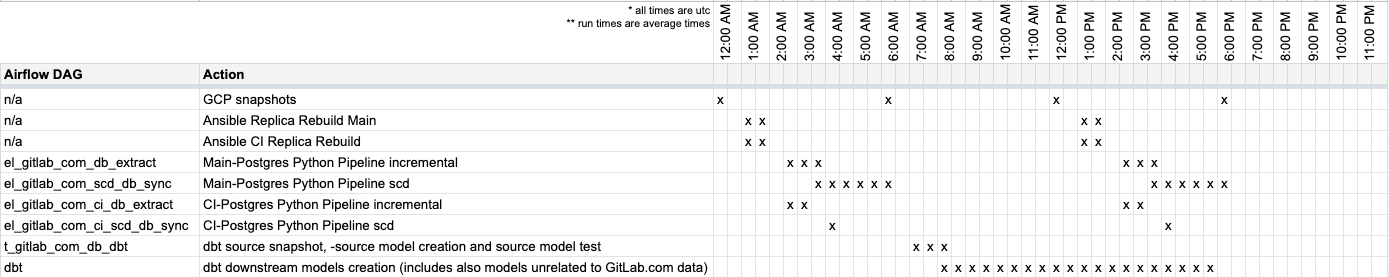
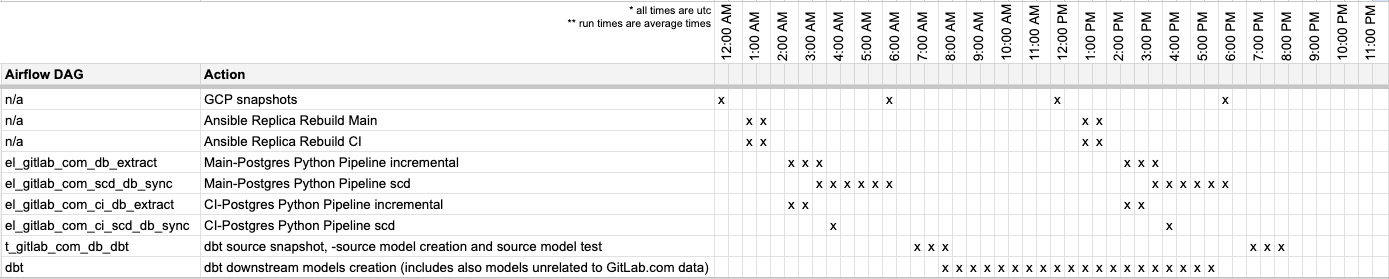
Update gitlab com SLO

Changed region(s): [[0.0, 0.0, 1.0, 1.0], [0.0, 0.3466, 0.031, 0.3755]]

diff --git a/business-technology/data-team/platform/pipelines/SAAS-Gitlab-com/index.html.md b/business-technology/data-team/platform/pipelines/SAAS-Gitlab-com/index.html.md
@@ -28,6 +28,8 @@ Data for reporting and analytics use cases like MR Rate & Performance KPIs (Prod
 * Does it contain PII data? `Yes`
 * How often does the data need to be refreshed? `Extract runs twice per day`
 * SLA Description: 
+   - Max 32 hours to Snowflake
+   - Max 55 hours to Sisense/Tableau 
 * Severity in case of an incident
   - [x] Critical - S1
   - [ ] High - S2
@@ -53,6 +55,38 @@ Data for reporting and analytics use cases like MR Rate & Performance KPIs (Prod
 | Business users who need to be informed in case of data outage | See [runbook](https://gitlab.com/gitlab-data/runbooks/-/blob/main/Gitlab_dotcom/Gitlab_DB_recreation_failure.md#slo-breach) | `N/A` |
  
 * Data access approval will be involved in the Access Request process and need to give approval if a GitLab team member applies for raw data access.
+ 
+## SLO explaination
+
+The extract runs twice per day on a replica Postgres database with static data. During the extract, we use a static source. If data is added or modified 1 second before the snapshot creation, it's included in the snapshot. However, if data is added or modified 1 second _after_ the snapshot is created, that data is excluded. Therefore, data is always older than the duration of the extraction process (approximately 6 hours) when it lands in Snowflakes `RAW` [layer](/handbook/business-technology/data-team/platform/#raw). After landing in Snowflake it requires [multiple steps](/handbook/business-technology/data-team/platform/dbt-guide/#what-and-why) to make it available for usage in Sisense/Tableau (`PROD` [layer](/handbook/business-technology/data-team/platform/#prod)).
+ 
+The setup currently, and SLO, is set that if the [Ansible Replica Rebuild](handbook/business-technology/data-team/platform/pipelines/SAAS-Gitlab-com/#ansible -replica-ebuild) step fails once (and subsequently we could not run the extract step) it does not lead to a SLO breach.
+
+**Example 1:**
+- Sunday 23:59:59AM UTC - Data is added or modified via GitLab.com
+- Monday 00:00:00AM UTC - Snapshot created 
+- Monday 01:00:00AM UTC - Ansible Replica Rebuild 
+- Monday 02:30:00AM UTC - Pipeline to extract data starts
+- Monday 06:00:00AM UTC - Data available in `raw` format in Snowflake
+- Monday 05:00:00PM UTC - Data available in for consumption in Sisense/Tableau 
+
+**Example 2:**
+- Monday 00:00:01AM UTC - Data is added or modified via GitLab.com
+- Monday 12:00:00PM UTC - Snapshot created 
+- Monday 01:00:00PM UTC - Ansible Replica Rebuild 
+- Monday 02:30:00PM UTC - Pipeline to extract data starts
+- Monday 06:00:00PM UTC - Data available in `raw` format in Snowflake**
+- Tuesday 05:00:00PM UTC - Data available in for consumption in Sisense/Tableau
+
+**Example 3:**
+- Monday 12:00:01PM UTC - Data is added or modified via GitLab.com
+- Tuesday 00:00:00AM UTC - Snapshot created 
+- Tuesday 01:00:00AM UTC - Ansible Replica Rebuild fails
+- No extract
+- Tuesday 12:00:00PM UTC - Snapshot created
+- Tuesday 02:30:00PM UTC - Pipeline to extract data starts
+- Tuesday 06:00:00PM UTC - Data available in `raw` format in Snowflake
+- Wednesday 05:00:00PM UTC - Data available in for consumption in Sisense/Tableau
 
 ## Data pipeline (technical) description
  
@@ -62,13 +96,13 @@ There are **dedicated** gitlab.com _read_ replica database instances used for da
 graph TD;
 subgraph Main Database
     A[Main Tables GitLab.com-DB-Live] -->|wal_files_mechanism| B(Main Tables GitLab.com-DB Replica) 
-    B --> |build_destroy_mechanism DB from GCP Snapshot | C[Main-Tables GitLab.com -- DB running on  port 5432]
+    B --> | Ansible Replica Rebuild DB Main from GCP Snapshot | C[Main-Tables GitLab.com -- DB running on  port 5432]
   
 end
 
 subgraph CI Database
 F[CI Tables GitLab.com-DB-Live] -->|wal_files_mechanism| G(CI Tables GitLab.com-DB Replica)     
-    G --> |build_destroy_mechanism DB from GCP Snapshot | H[CI-Tables GitLab.com -- DB running on  port 5432]
+    G --> | Ansible Replica Rebuild DB CI from GCP Snapshot | H[CI-Tables GitLab.com -- DB running on  port 5432]
 
 end
 
@@ -94,7 +128,10 @@ Extracting data from this database outside the window will result in an error, b
 
 - `Gitlab.com-DB (Main and CI) Live Replica` is populated with data via WAL files continuously. 
 
-Currently, to ensure a stable data-feed, both the incremental and full loads utilise the `GitLab.com-DB (Main and CI) created from GCP snapshots` instance. During development and tests activities, we faced issues with loading out of the `Gitlab.com-DB Live Replica` as a result of write and read actions at the same time (query conflicting). To increase the time for a query conflicting with recovery, there are `max_standby_archive_delay` and `max_standby_streaming_delay` settings. This should be configured on the server side and could result increasing lag on the replication process. We should avoid that and thus we are reading out of a more static data source.
+During development and tests activities, we faced issues with loading out of the `Gitlab.com-DB Live Replica` as a result of write and read actions at the same time (query conflicting). To increase the time for a query conflicting with recovery, there are `max_standby_archive_delay` and `max_standby_streaming_delay` settings. This should be configured on the server side and could result increasing lag on the replication process. We should avoid that and thus we are reading out of a more static data source.
+
+### Ansible Replica Rebuild 
+Currently, to ensure a stable data-feed, both the incremental and full loads utilise the `GitLab.com-DB (Main and CI) created from GCP snapshots` instance.  The read replicas are build by an Ansible process which is configured in this [project](https://gitlab.com/gitlab-com/gl-infra/data-server-rebuild-ansible). 
 
 ### Monitoring/Alerting
 

diff --git a/business-technology/data-team/platform/index.html.md b/business-technology/data-team/platform/index.html.md
@@ -121,7 +121,7 @@ The following table indexes all of the RAW data sources we are loading into the 
 | [Demandbase](https://www.demandbase.com/) | Snowflake task | `demandbase` | `demandbase` | Marketing | 24h / x | No | Tier 2 |
 | [Facebook_ads](https://www.facebook.com/business/ads) | Fivetran | `facebook_ads` | `facebook_ads` | Marketing | 24h / 48h | No | Tier 3 |
 | [Gainsight Customer Success](https://gitlab.gainsightcloud.com/v1/ui/home) | Fivetran | `gainsight_customer_success` | `gainsight_customer_success` | Customer Success | 24h / 48h | No | Tier 3 |
-| GitLab.com | pgp | `tap_postgres` | `gitlab_dotcom` | Product, Engineering | 24h / 48h | No | Tier 1 |
+| GitLab.com | pgp | `tap_postgres` | `gitlab_dotcom` | Product, Engineering | 12h / 55h | No | Tier 1 |
 | [GitLab Ops DB](https://about.gitlab.com/handbook/business-technology/data-team/platform/pipelines/#gitlab-ops-database) | pgp | `tap_postgres` | `gitlab_ops` | Engineering | 6h / x | No | Tier 1 |
 | GitLab Profiler DB | x | x | x | x | x / x | No | Tier 3 |
 | Gitlab Container Registry Logs | Airflow | `Container Registry` | `Container Registry` | Engineering | x | No | Tier 2 |
